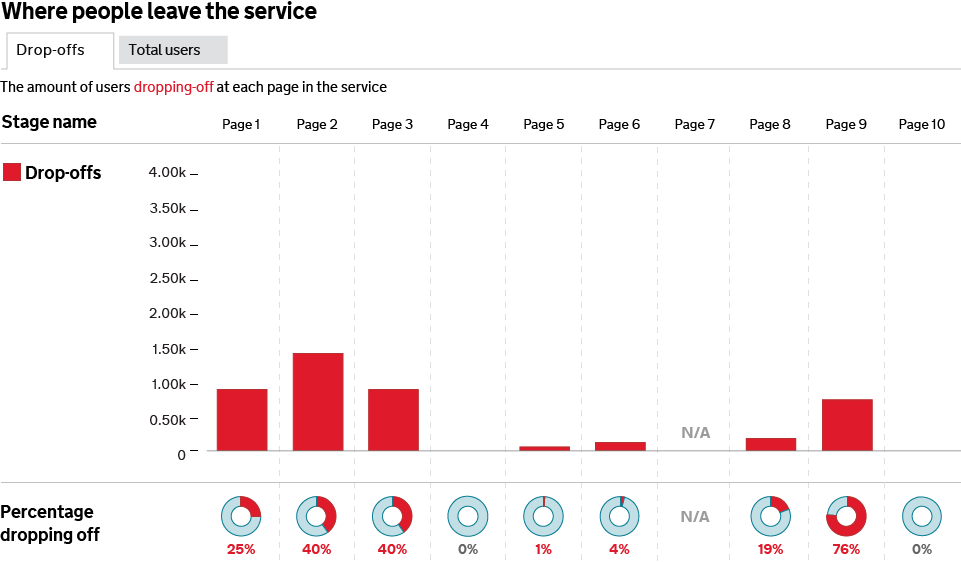
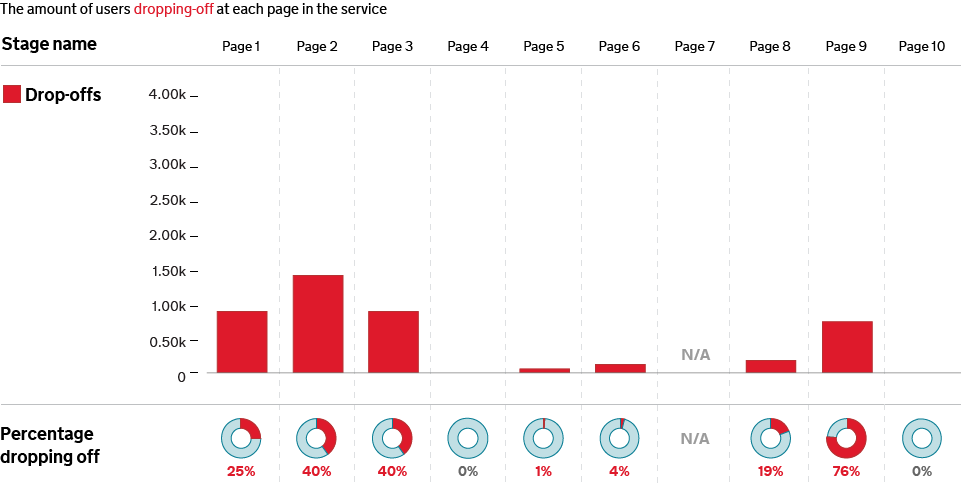
image updates and label change

diff --git a/html-prototypes/subnav-exploration/services-service-tax-disc_prototype.html b/html-prototypes/subnav-exploration/services-service-tax-disc_prototype.html
@@ -214,11 +214,11 @@
   </ul>
   <nav id="applications-nav">
     <ul>
-      <li id="users-within-one" class="active">Drop-offs</li>
-      <li id="users-within-two"><a href="#">Total Users</a></li>
+      <li id="users-within-one" class="active" style="width:12em">Users who dropped off</li>
+      <li id="users-within-two" style="width:12em"><a href="#">Total Users</a></li>
     </ul>
   </nav>
-  <img width="100%" src="assets/images/drop-offs-total-users.png" id="users-within-image" />
+  <img width="100%" src="assets/images/drop-offs-dropped-users.png" id="users-within-image" />
 </section>
 
 <script type="text/javascript">
@@ -226,19 +226,19 @@
 $(document).ready(function() {
   $("#users-within-one").click(function(e) {
     $("#users-within-one").addClass('active')
-    $("#users-within-one").html('Drop-offs')
+    $("#users-within-one").html('Users who dropped off')
     $("#users-within-two").removeClass('active')
     $("#users-within-two").html('<a href="#">Total users</a>')
-    $("#users-within-image").attr('src', 'assets/images/drop-offs-total-users.png');
+    $("#users-within-image").attr('src', 'assets/images/drop-offs-dropped-users.png');
     e.preventDefault();
   })
 
   $("#users-within-two").click(function(e) {
     $("#users-within-one").removeClass('active')
-    $("#users-within-one").html('<a href="#">Drop-offs</a>')
+    $("#users-within-one").html('<a href="#">Users who dropped off</a>')
     $("#users-within-two").addClass('active')
     $("#users-within-two").html('Total users')
-    $("#users-within-image").attr('src', 'assets/images/drop-offs-dropped-users.png');
+    $("#users-within-image").attr('src', 'assets/images/drop-offs-total-users.png');
     e.preventDefault();
   })
 
